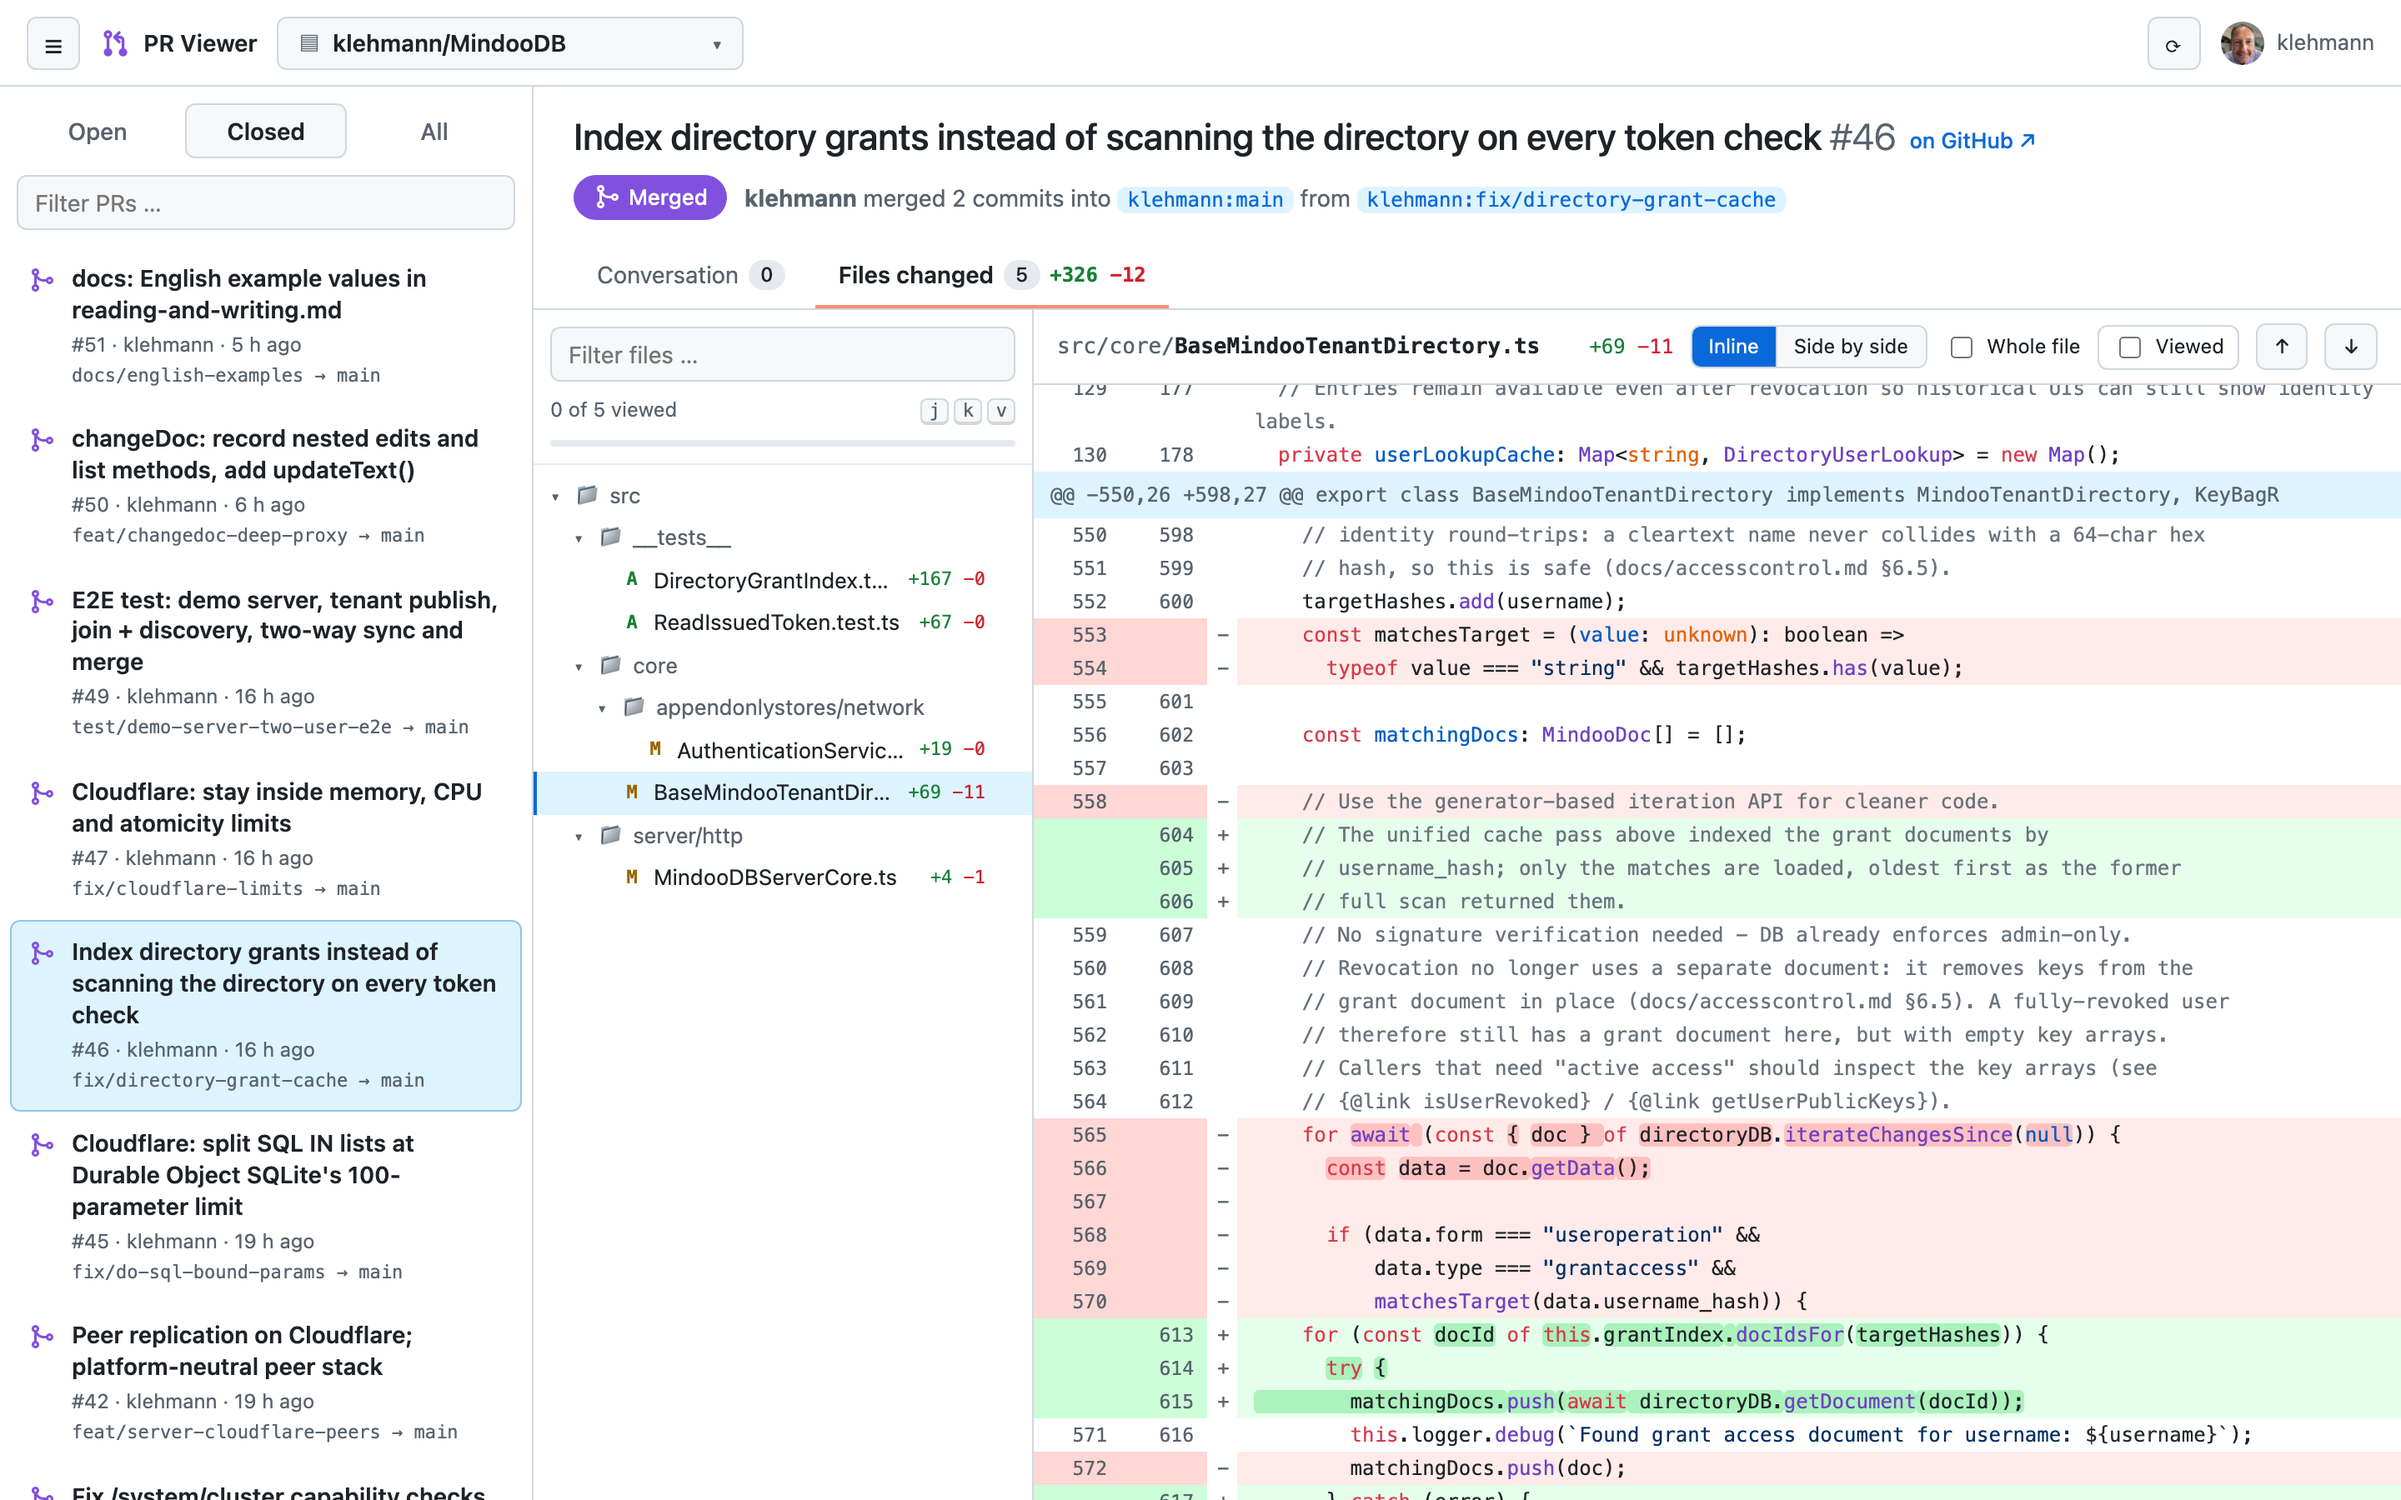
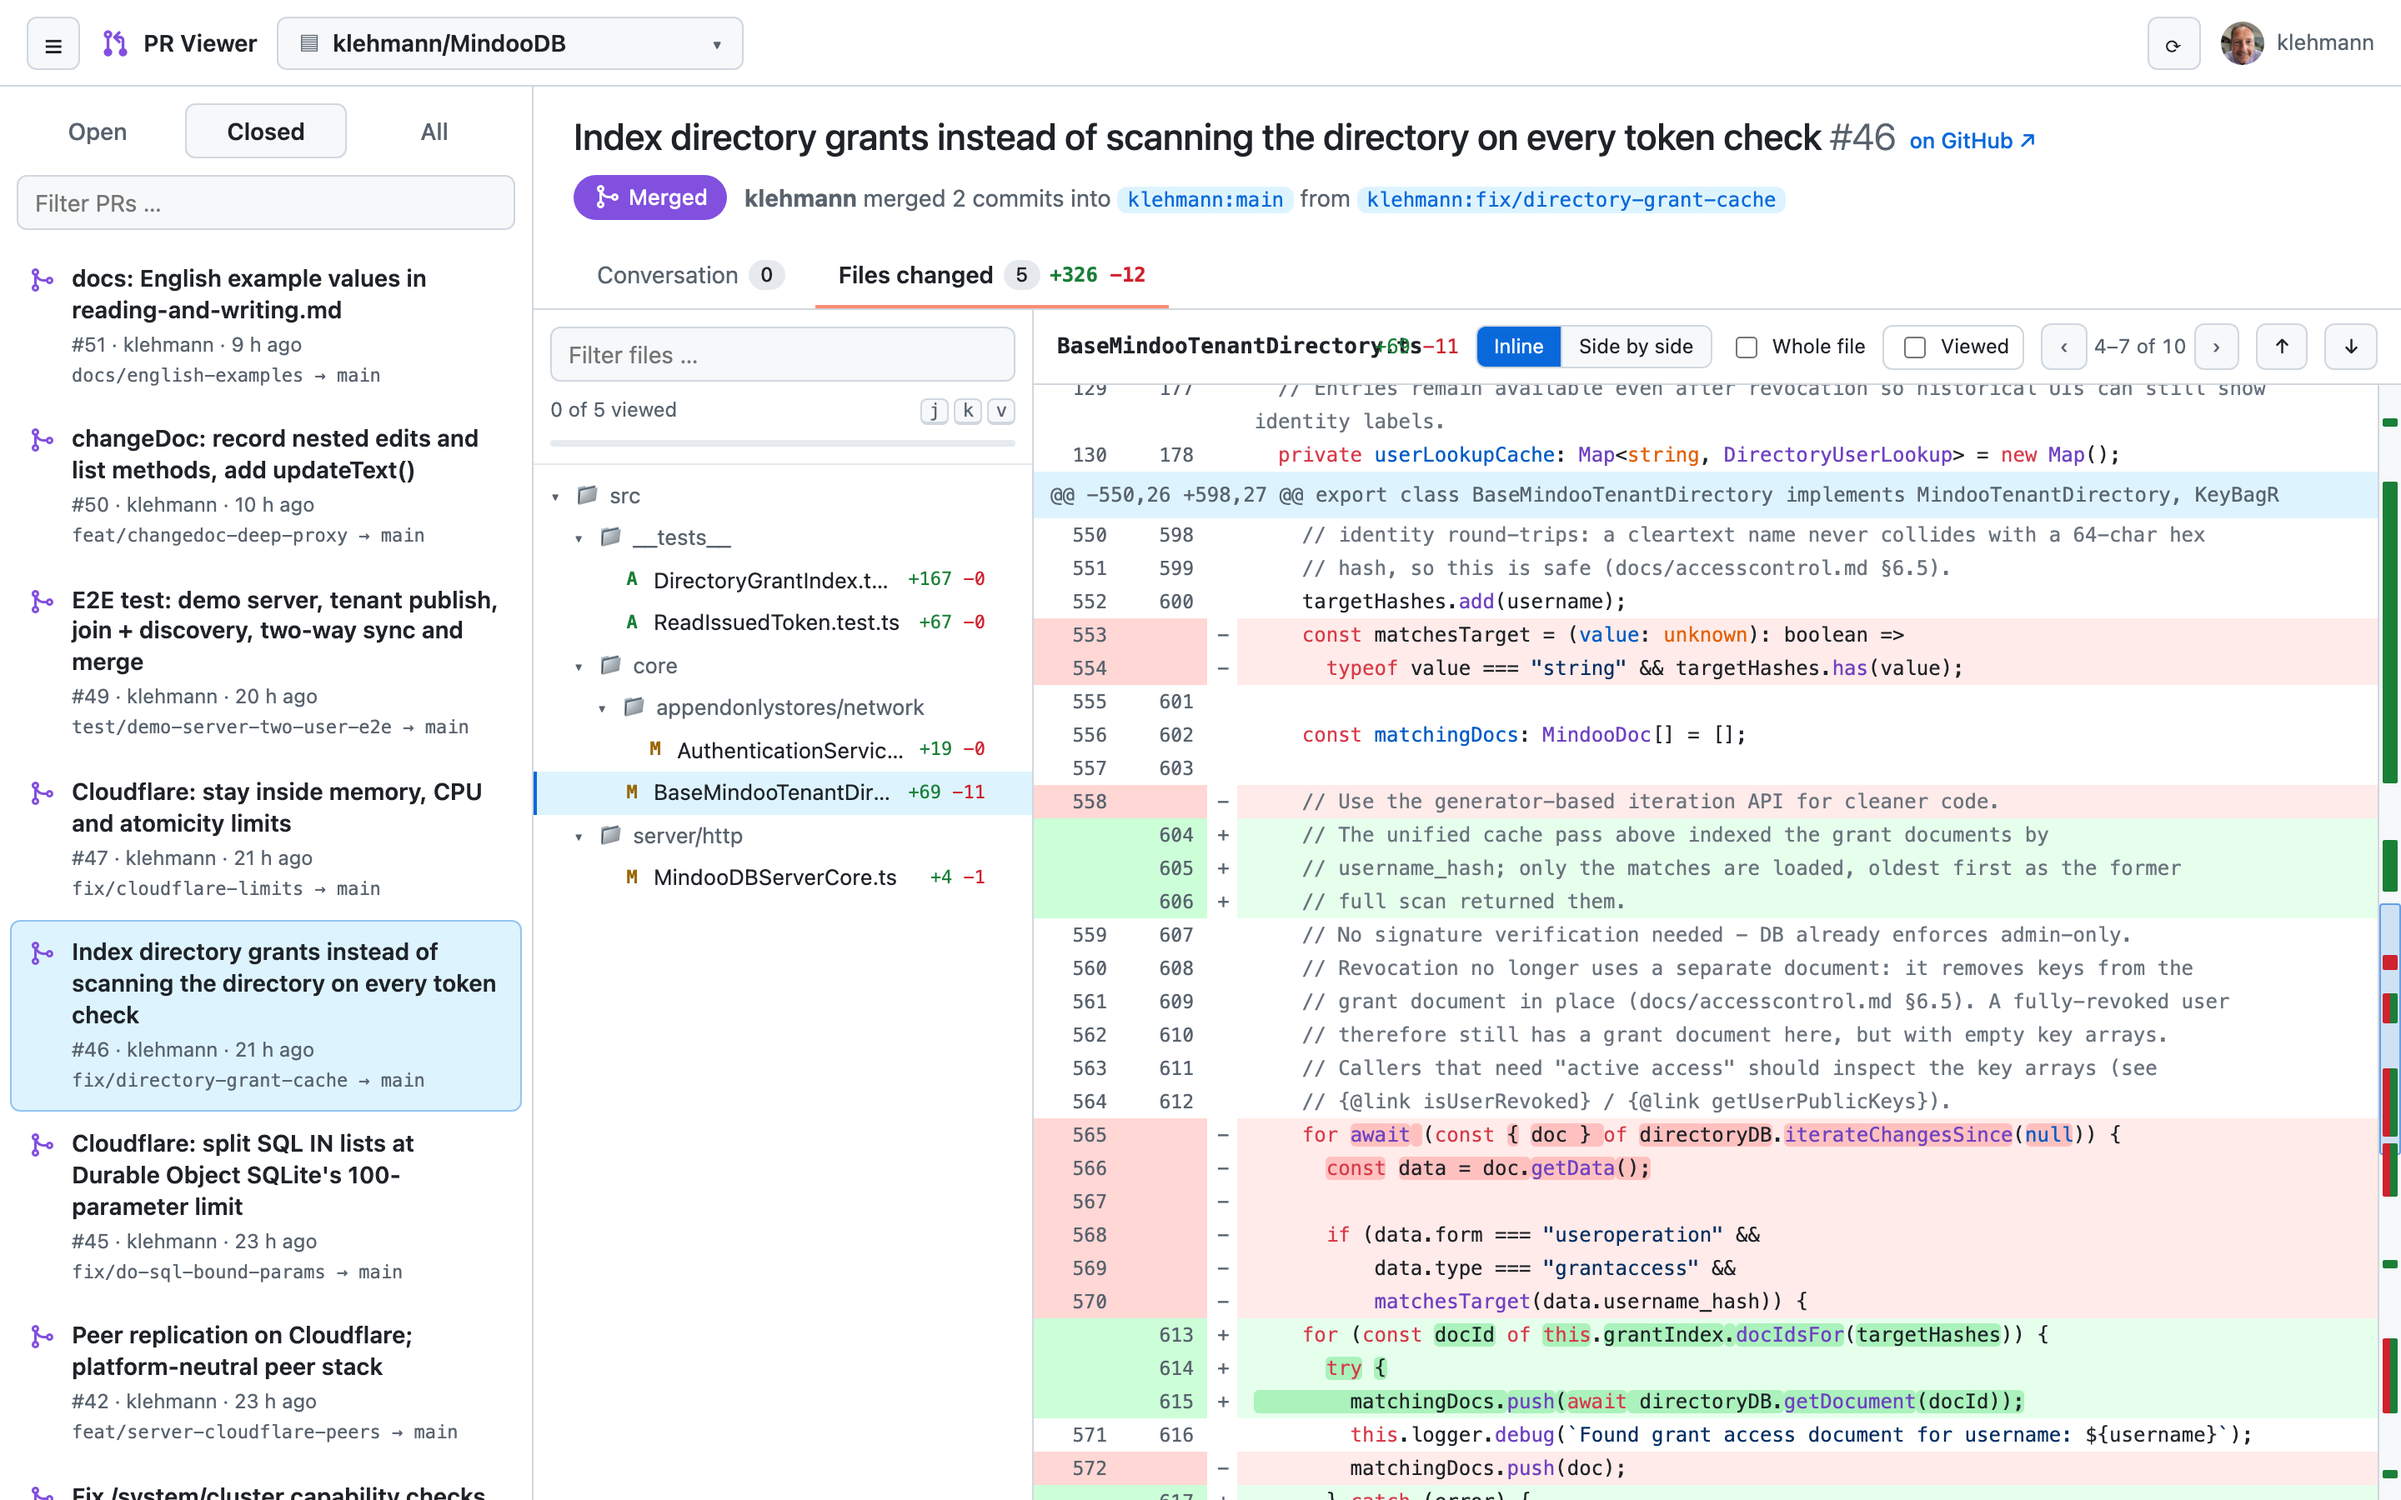
Added indicator on scrollbar for next change

diff --git a/public/app.js b/public/app.js
@@ -484,10 +484,18 @@ async function renderFilesTab() {
         <div class="seg" id="viewSeg"><button data-view="unified">Inline</button><button data-view="split">Side by side</button></div>
         <label class="toggle"><input type="checkbox" id="fullToggle"> Whole file</label>
         <label class="viewed-toggle" id="viewedToggle"><input type="checkbox" id="viewedBox"> Viewed</label>
+        <span class="change-nav" id="changeNav" hidden>
+          <button class="btn btn-sm" id="prevChange" title="Previous change (p)">‹</button>
+          <span id="changeCount"></span>
+          <button class="btn btn-sm" id="nextChange" title="Next change (n)">›</button>
+        </span>
         <button class="btn btn-sm" id="prevFile" title="Previous file (k)">↑</button>
         <button class="btn btn-sm" id="nextFile" title="Next file (j)">↓</button>
       </div>
-      <div class="diff-scroll" id="diffScroll"></div>
+      <div class="diff-body">
+        <div class="diff-scroll" id="diffScroll"></div>
+        <div class="diff-ruler" id="diffRuler" hidden title="Changes in this file. Click to jump."><div class="ruler-view" id="rulerView"></div></div>
+      </div>
     </div>
   </div>`;
   $('#fileFilter').addEventListener('input', renderTree);
@@ -495,6 +503,11 @@ async function renderFilesTab() {
   $('#fullToggle').checked = S.full;
   $('#fullToggle').addEventListener('change', (e) => { S.full = e.target.checked; store.set('full', S.full); renderDiff(); });
   $('#viewedBox').addEventListener('change', (e) => setViewed(currentFile(), e.target.checked));
+  $('#prevChange').addEventListener('click', () => stepChange(-1));
+  $('#nextChange').addEventListener('click', () => stepChange(1));
+  $('#diffScroll').addEventListener('scroll', () => { updateRulerView(); updateChangeCount(); }, { passive: true });
+  $('#diffRuler').addEventListener('mousedown', onRulerDown);
+  new ResizeObserver(() => buildRuler()).observe($('#diffScroll'));
   $('#prevFile').addEventListener('click', () => stepFile(-1));
   $('#nextFile').addEventListener('click', () => stepFile(1));
   $('#fileTree').addEventListener('click', onTreeClick);
@@ -849,7 +862,94 @@ async function renderDiff() {
   scroll.scrollTop = 0;
   scroll.querySelectorAll('.markdown-body a').forEach((a) => { a.target = '_blank'; a.rel = 'noopener'; });
   // In the whole-file view, jump to the first change
-  if (S.full) scroll.querySelector('tr.add, tr.del, td.code.add, td.code.del')?.scrollIntoView({ block: 'center' });
+  buildRuler();
+  if (S.full && S.changes.length) scrollToChange(0);
+}
+
+// ---------- Overview ruler: marks the changed spots next to the scrollbar ----------
+S.changes = [];
+const rowKind = (tr) => {
+  if (tr.classList.contains('add')) return 'add';
+  if (tr.classList.contains('del')) return 'del';
+  const a = tr.querySelector('td.code.add'); const d = tr.querySelector('td.code.del');
+  return a && d ? 'mod' : a ? 'add' : d ? 'del' : null;
+};
+function buildRuler() {
+  const scroll = $('#diffScroll'); const ruler = $('#diffRuler'); if (!scroll || !ruler) return;
+  ruler.querySelectorAll('.ruler-mark').forEach((m) => m.remove());
+  const table = scroll.querySelector('table.diff');
+  S.changes = [];
+  if (!table) { ruler.hidden = true; $('#changeNav').hidden = true; return; }
+  // Group consecutive changed rows into blocks
+  let cur = null;
+  for (const tr of table.tBodies[0].rows) {
+    if (tr.classList.contains('inline-comments')) continue;
+    const k = rowKind(tr);
+    if (!k) { cur = null; continue; }
+    if (!cur) { cur = { top: tr.offsetTop, bottom: tr.offsetTop + tr.offsetHeight, kinds: new Set([k]), row: tr }; S.changes.push(cur); } else { cur.bottom = tr.offsetTop + tr.offsetHeight; cur.kinds.add(k); }
+  }
+  const total = scroll.scrollHeight || 1;
+  ruler.hidden = !S.changes.length;
+  $('#changeNav').hidden = !S.changes.length;
+  const h = ruler.clientHeight;
+  const frag = document.createDocumentFragment();
+  for (const c of S.changes) {
+    const m = document.createElement('div');
+    const kind = c.kinds.has('mod') || (c.kinds.has('add') && c.kinds.has('del')) ? 'mod' : [...c.kinds][0];
+    m.className = `ruler-mark ${kind}`;
+    m.style.top = `${(c.top / total) * h}px`;
+    m.style.height = `${Math.max(3, ((c.bottom - c.top) / total) * h)}px`;
+    frag.appendChild(m);
+  }
+  ruler.appendChild(frag);
+  updateRulerView(); updateChangeCount();
+}
+function updateRulerView() {
+  const scroll = $('#diffScroll'); const v = $('#rulerView'); if (!scroll || !v) return;
+  const h = $('#diffRuler').clientHeight; const total = scroll.scrollHeight || 1;
+  v.style.top = `${(scroll.scrollTop / total) * h}px`;
+  v.style.height = `${Math.max(8, (scroll.clientHeight / total) * h)}px`;
+}
+// Index of the first change at or below the top of the visible area
+function currentChangeIndex() {
+  const top = $('#diffScroll').scrollTop + 1;
+  const i = S.changes.findIndex((c) => c.bottom > top);
+  return i < 0 ? S.changes.length : i;
+}
+function updateChangeCount() {
+  const el = $('#changeCount'); if (!el || !S.changes.length) return;
+  const scroll = $('#diffScroll');
+  const view = [scroll.scrollTop, scroll.scrollTop + scroll.clientHeight];
+  const visible = S.changes.map((c, i) => (c.bottom > view[0] && c.top < view[1] ? i : -1)).filter((i) => i >= 0);
+  const below = S.changes.filter((c) => c.top >= view[1]).length;
+  el.textContent = visible.length
+    ? `${visible[0] + 1}${visible.length > 1 ? '–' + (visible[visible.length - 1] + 1) : ''} of ${S.changes.length}`
+    : `${S.changes.length} change${S.changes.length === 1 ? '' : 's'}`;
+  el.title = below ? `${below} more change${below === 1 ? '' : 's'} below` : 'No more changes below';
+}
+function scrollToChange(i) {
+  const c = S.changes[i]; if (!c) return;
+  const scroll = $('#diffScroll');
+  scroll.scrollTop = Math.max(0, c.top - Math.min(120, scroll.clientHeight / 4));
+}
+function stepChange(dir) {
+  if (!S.changes.length) return;
+  const scroll = $('#diffScroll'); const top = scroll.scrollTop + Math.min(120, scroll.clientHeight / 4);
+  let i;
+  if (dir > 0) i = S.changes.findIndex((c) => c.top > top + 2);
+  else { i = -1; S.changes.forEach((c, k) => { if (c.top < top - 2) i = k; }); }
+  if (i >= 0) scrollToChange(i);
+}
+function onRulerDown(e) {
+  const ruler = $('#diffRuler'); const scroll = $('#diffScroll');
+  const jump = (ev) => {
+    const r = ruler.getBoundingClientRect();
+    const frac = Math.min(1, Math.max(0, (ev.clientY - r.top) / r.height));
+    scroll.scrollTop = frac * scroll.scrollHeight - scroll.clientHeight / 2;
+  };
+  jump(e); e.preventDefault();
+  const up = () => { window.removeEventListener('mousemove', jump); window.removeEventListener('mouseup', up); };
+  window.addEventListener('mousemove', jump); window.addEventListener('mouseup', up);
 }
 
 // ---------- Events ----------
@@ -891,6 +991,8 @@ document.addEventListener('keydown', (e) => {
   if (S.tab === 'files' && S.files) {
     if (e.key === 'j') { stepFile(1); e.preventDefault(); }
     if (e.key === 'k') { stepFile(-1); e.preventDefault(); }
+    if (e.key === 'n') { stepChange(1); e.preventDefault(); }
+    if (e.key === 'p') { stepChange(-1); e.preventDefault(); }
     if (e.key === 'v') { const f = currentFile(); if (f) setViewed(f, !isViewed(f)); }
   }
   if (e.key === 'r') refresh();

diff --git a/public/app.css b/public/app.css
@@ -308,7 +308,17 @@ input:focus, select:focus, textarea:focus { outline: 2px solid var(--accent); ou
 .toggle { display: inline-flex; align-items: center; gap: 6px; font-size: 12px; cursor: pointer; user-select: none; }
 .viewed-toggle { display: inline-flex; align-items: center; gap: 6px; font-size: 12px; border: 1px solid var(--border); border-radius: 6px; padding: 3px 8px; cursor: pointer; user-select: none; }
 .viewed-toggle.on { background: var(--accent-soft); border-color: var(--accent); }
+.diff-body { flex: 1; min-height: 0; display: flex; position: relative; }
 .diff-scroll { overflow: auto; flex: 1; background: var(--surface); }
+.diff-ruler { width: 14px; flex-shrink: 0; position: relative; background: var(--surface-2); border-left: 1px solid var(--border); cursor: pointer; }
+.ruler-mark { position: absolute; left: 2px; right: 2px; border-radius: 1px; pointer-events: none; }
+.ruler-mark.add { background: var(--green); }
+.ruler-mark.del { background: var(--red); }
+.ruler-mark.mod { background: linear-gradient(90deg, var(--red) 50%, var(--green) 50%); }
+.ruler-view { position: absolute; left: 0; right: 0; background: color-mix(in srgb, var(--accent) 16%, transparent); border: 1px solid color-mix(in srgb, var(--accent) 55%, transparent); border-radius: 2px; pointer-events: none; }
+.change-nav { display: inline-flex; align-items: center; gap: 4px; font-size: 12px; color: var(--muted); }
+.change-nav[hidden] { display: none; }
+.change-nav #changeCount { min-width: 56px; text-align: center; font-variant-numeric: tabular-nums; }
 .diff-msg { padding: 40px; text-align: center; color: var(--muted); }
 
 table.diff { width: 100%; border-collapse: collapse; font-family: var(--mono); font-size: 12px; line-height: 20px; table-layout: fixed; }

diff --git a/README.md b/README.md
@@ -14,6 +14,8 @@ only that one file, inline or side by side, optionally with the whole file conte
 - Files changed: file tree on the left, exactly one file on the right
   - Inline or side-by-side diff with syntax highlighting and word-level highlights
   - "Whole file" shows the complete file with its changes (compared with the merge base)
+  - A ruler next to the scrollbar marks every changed spot; click it to jump there, or step
+    through the changes with `n` / `p`
   - Before/after preview for images, review comments shown at their line
   - "Viewed" checkbox per file (stored locally, reset when the file changes)
 - Merge button (merge commit, squash or rebase) with a confirmation dialog
@@ -56,6 +58,7 @@ Then open http://localhost:4777. To use another port: `PORT=5000 npm start`.
 | Key | Action |
 | --- | --- |
 | `j` / `k` | Next / previous file |
+| `n` / `p` | Next / previous change in the current file |
 | `v` | Mark the current file as viewed |
 | `l` | Show / hide the pull request list |
 | `r` | Reload |
